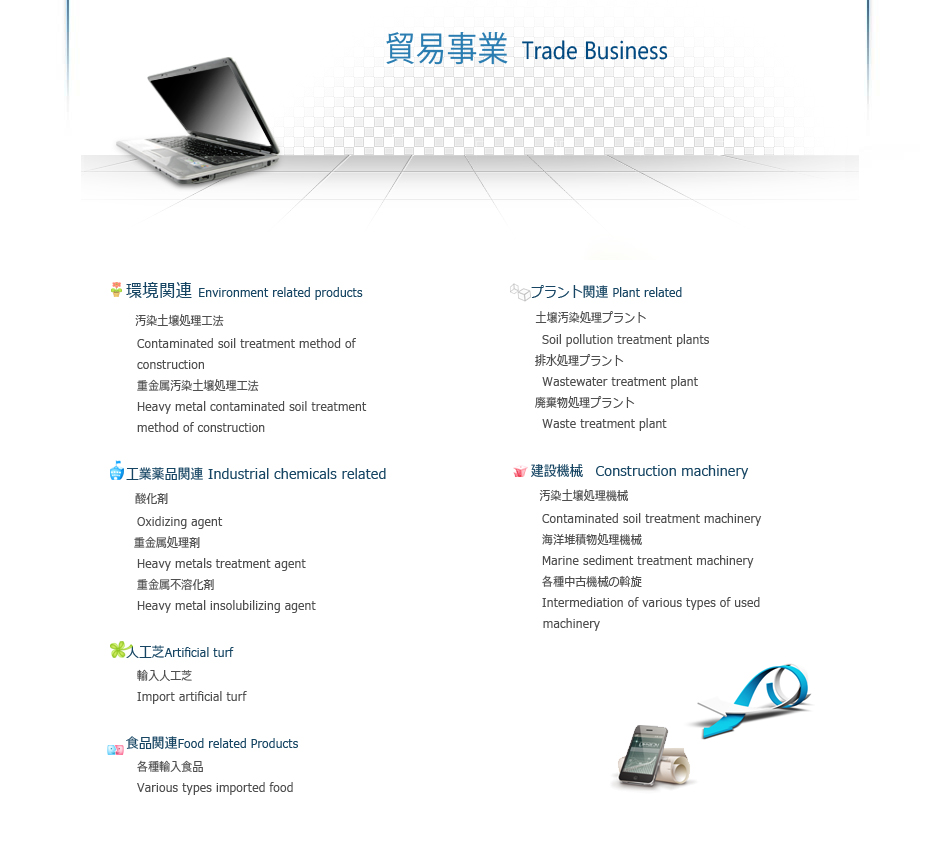
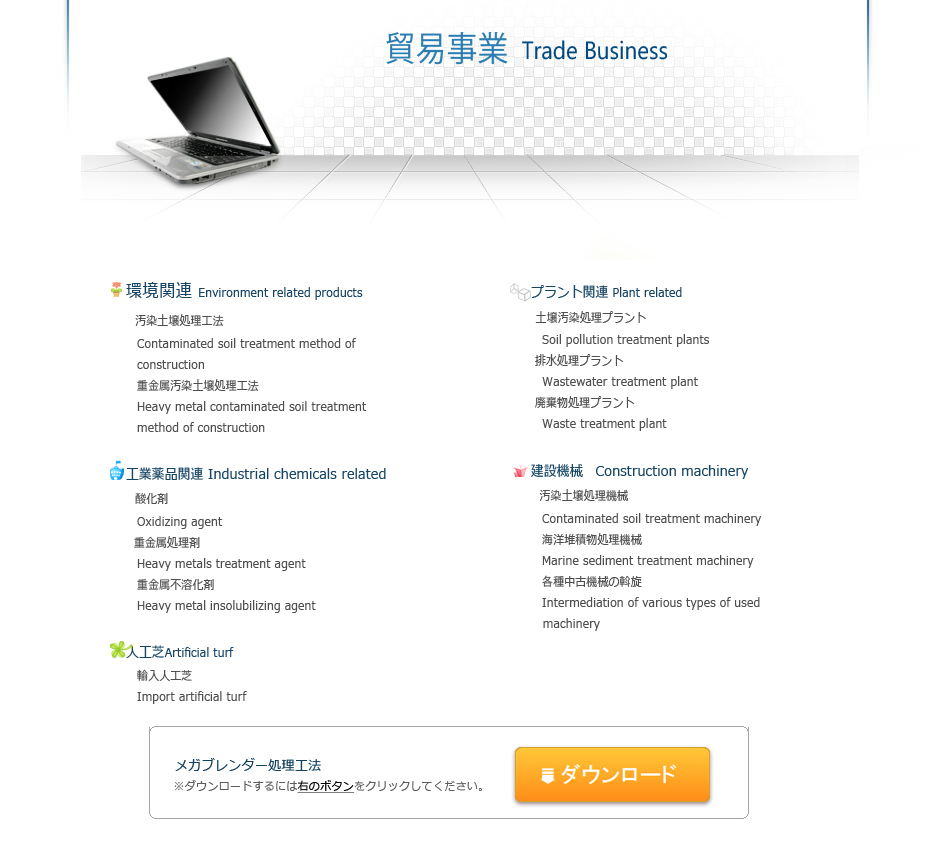
home div & download link

diff --git a/sub_03.htm b/sub_03.htm
@@ -19,7 +19,7 @@
   </tr>
   <tr> 
     <td align="center">&nbsp;</td>
-    <td align="center"><img src="img/sub03_info.jpg" width="941"></td>
+    <td align="center"><img src="img/sub03_info.jpg" usemap="#Map2" width="941"></td>
     <td align="center">&nbsp;</td>
   </tr>
   <tr bgcolor="424242"> 
@@ -42,6 +42,9 @@
   <area shape="rect" coords="726,4,780,23" href="sub_03.htm" alt="貿易事業"/>
   <area shape="rect" coords="792,4,834,23" href="sub_04.htm" alt="人工芝"/>
   <area shape="rect" coords="830,4,934,23" href="mailto:info@shin-jk-corp.com" alt="お問い合わせ"/>
+</map>
+<map name="Map2">
+  <area shape="rect" coords="514,747,710,803" href="data/140416-1.doc" alt="ダウンロード">
 </map>
 </body>
 </html>
